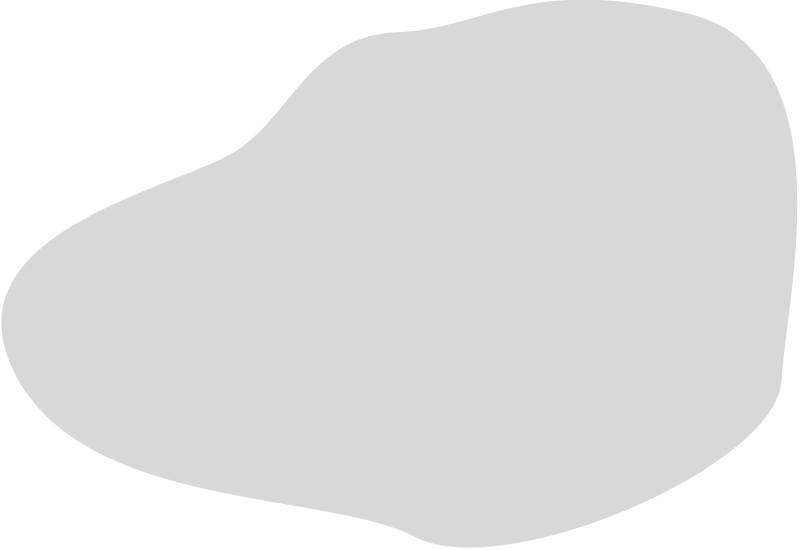
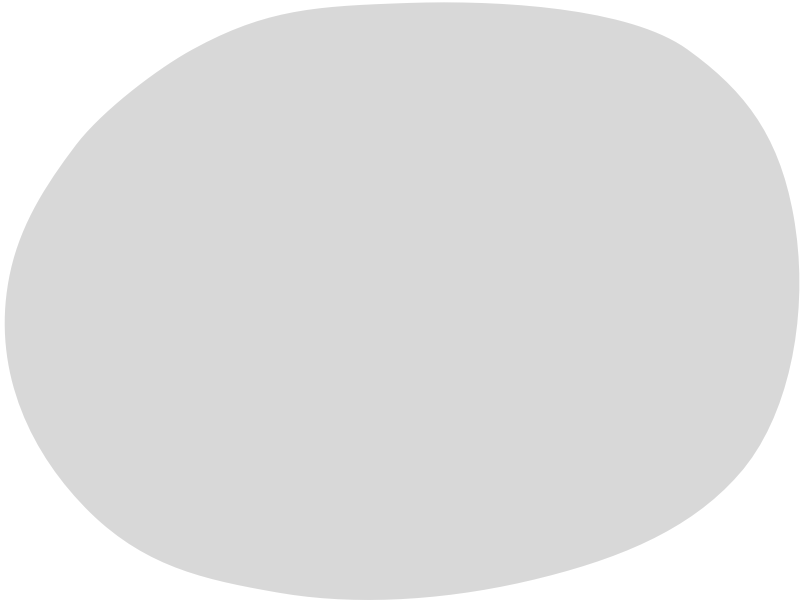
increase image mask size & add painting query

diff --git a/assets/css/style.css b/assets/css/style.css
@@ -117,7 +117,7 @@ button:focus {
 /* For wrapping the images and gifs */
 .media-wrapper {
     width: 92vw;
-    max-height: 350px;
+    max-height: 400px;
 }
 
 /* Masking the images and gifs */
@@ -128,6 +128,7 @@ button:focus {
     mask-size: contain;
     -webkit-mask-repeat: no-repeat;
     mask-repeat: no-repeat;
+    mask-position: center;
 }
 
 /* Blobs */ 
@@ -490,13 +491,13 @@ input[type=range]:hover::-moz-range-thumb {
 
     .media-wrapper {
         width: 800px;
-        height: 550px;
-        max-height: 600px;
+        height: 600px;
+        max-height: 650px;
     }
 
     .image-mask {
         width: 800px;
-        height: 550px;
+        height: 600px;
     }
 
     .blob1, .blob2 {

diff --git a/assets/js/script.js b/assets/js/script.js
@@ -371,7 +371,7 @@ const nextBtnHandler = function (event) {
     }
 
     if (currentContent === "painting") {
-        getArt();
+        getArt("painting");
     }
 
 
@@ -572,7 +572,7 @@ const getSurprise = function () {
             break;
         case "painting":
             contentOptionsEl.selectedIndex = 2;
-            getArt();
+            getArt("painting");
             break;
         case "quote":
             contentOptionsEl.selectedIndex = 3;
